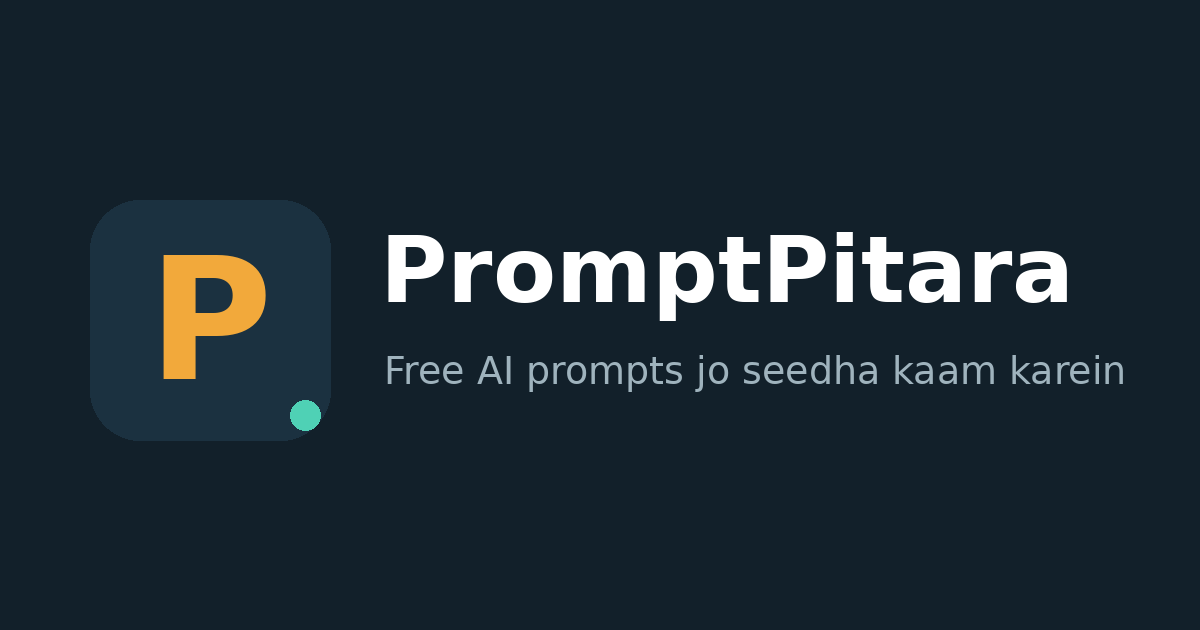
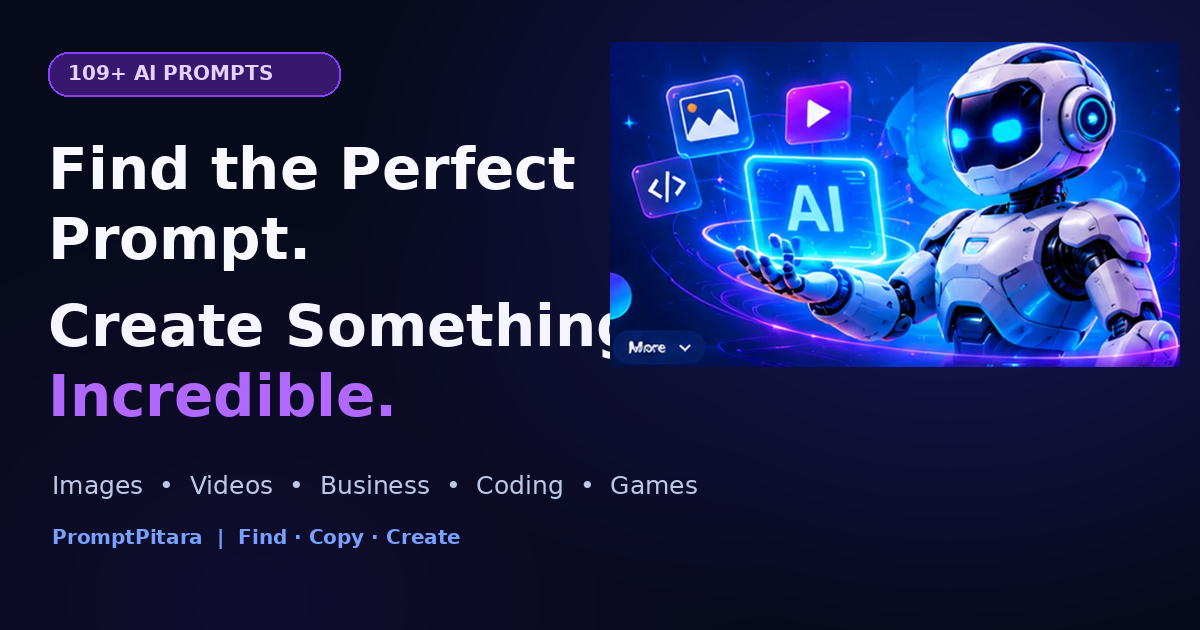
Add files via upload

diff --git a/index.html b/index.html
@@ -1,8 +1,20 @@
 <!doctype html><html lang="en"><head><meta charset="utf-8"><meta name="viewport" content="width=device-width,initial-scale=1,interactive-widget=resizes-content"><link rel="icon" href="/favicon.svg"><link rel="preconnect" href="https://fonts.googleapis.com"><link href="https://fonts.googleapis.com/css2?family=Bricolage+Grotesque:wght@600;700&family=Hind:wght@400;600&display=swap" rel="stylesheet"><link rel="stylesheet" href="/style.css">
-<title>PromptPitara — Free AI Prompts jo seedha kaam karein</title><meta name="description" content="Website, reels, images, coding aur business ke liye ready-to-use AI prompt templates. Details bharo, copy karo, kaam shuru karo."><link rel="canonical" href="https://promptshala-theta.vercel.app/">
-<meta property="og:type" content="website"><meta property="og:site_name" content="PromptPitara"><meta property="og:title" content="PromptPitara — Free AI Prompts"><meta property="og:description" content="Ready-to-use AI prompt templates. Details bharo, copy karo, use karo."><meta property="og:url" content="https://promptshala-theta.vercel.app/"><meta property="og:image" content="https://promptshala-theta.vercel.app/og.png"><meta name="twitter:card" content="summary_large_image"><meta name="twitter:image" content="https://promptshala-theta.vercel.app/og.png"><meta name="theme-color" content="#12202A"><style>dialog{max-height:88dvh;overflow:auto}details.ex{margin:0 0 12px}.card{transition:transform .15s,box-shadow .15s}.card:hover{transform:translateY(-2px);box-shadow:0 8px 24px #0002}.card h3{margin:2px 0}</style></head><body>
-<header><div class="wrap"><a class="brand" href="/"><img src="/logo.svg" alt="">PromptPitara</a><nav><a href="/about.html">About</a><a href="/contact.html">Contact</a></nav></div></header>
-<main class="wrap"><section class="hero"><h1>AI se kaam karwana seekho, prompt se.</h1><p>Website, reels, images, coding, games aur business ke liye ready-to-use templates. Apni details daalo, prompt copy karo.</p><p id="stats" class="stats"></p><input id="q" type="search" placeholder="Search karo: reel, logo, python…" aria-label="Search prompts"></section>
+<title>PromptPitara — Discover, Copy & Create with AI Prompts</title><meta name="description" content="Discover 109+ practical AI prompts for images, videos, business, coding, gaming and content creation. Customize, preview and copy in seconds."><link rel="canonical" href="https://promptshala-theta.vercel.app/">
+<meta property="og:type" content="website"><meta property="og:site_name" content="PromptPitara"><meta property="og:title" content="PromptPitara — Free AI Prompts"><meta property="og:description" content="Ready-to-use AI prompt templates. Details bharo, copy karo, use karo."><meta property="og:url" content="https://promptshala-theta.vercel.app/"><meta property="og:image" content="https://promptshala-theta.vercel.app/og.png"><meta name="twitter:card" content="summary_large_image"><meta name="twitter:image" content="https://promptshala-theta.vercel.app/og.png"><meta name="theme-color" content="#070a1b"><style>dialog{max-height:88dvh;overflow:auto}details.ex{margin:0 0 12px}.card{transition:transform .15s,box-shadow .15s}.card:hover{transform:translateY(-2px);box-shadow:0 8px 24px #0002}.card h3{margin:2px 0}</style></head><body>
+<header class="site-header"><div class="wrap header-inner"><a class="brand" href="/" aria-label="PromptPitara home"><img src="/logo.svg" alt=""> <span>Prompt<span class="brand-accent">Pitara</span><small>Find · Copy · Create</small></span></a><nav aria-label="Main navigation"><a class="nav-active" href="/">Home</a><a href="#categories">Explore</a><a href="#categories">Categories</a><a href="#builder-title">Prompt Generator</a><a href="/about.html">About</a><a href="/contact.html">Contact</a></nav><a class="nav-saved" href="#chips" id="saved-shortcut">✦ Saved prompts</a></div></header>
+<main class="wrap main-wrap"><section class="hero hero-pro"><div class="hero-copy"><span class="eyebrow">🔥 109+ READY-TO-USE PROMPTS</span><h1>Find the Perfect Prompt.<br> Create Something <span>Incredible.</span></h1><p>Explore practical AI prompts for images, videos, business, coding, gaming and content creation.</p><div class="hero-search"><input id="q" type="search" placeholder="Search prompts… e.g. AI video, business plan, game design" aria-label="Search prompts"><a href="#prompt-library" class="btn search-btn">Explore prompts →</a></div><p id="stats" class="stats"></p></div><div class="hero-art" role="img" aria-label="Futuristic AI robot with glowing creative tools"></div></section>
+<section class="category-section" id="categories"><div class="section-heading"><div><span class="eyebrow">DISCOVER BY CATEGORY</span><h2>Explore Prompt Categories</h2></div><a href="#prompt-library">Browse all →</a></div><div class="category-showcase">
+<a class="category-tile" href="#prompt-library" data-category="AI Images"><img src="/assets/categories/category-01.webp" alt="AI image creation artwork"><span>AI Image Creation</span><small>Creative visuals</small></a>
+<a class="category-tile" href="#prompt-library" data-category="AI Video"><img src="/assets/categories/category-02.webp" alt="AI video production artwork"><span>AI Video Creation</span><small>Cinematic clips</small></a>
+<a class="category-tile" href="#prompt-library" data-category="Business"><img src="/assets/categories/category-03.webp" alt="Business growth artwork"><span>Business & Startup</span><small>Build your idea</small></a>
+<a class="category-tile" href="#prompt-library" data-category="Social Media"><img src="/assets/categories/category-04.webp" alt="Social media marketing artwork"><span>Social Media</span><small>Grow your reach</small></a>
+<a class="category-tile" href="#prompt-library" data-category="Website"><img src="/assets/categories/category-05.webp" alt="Website coding artwork"><span>Website & Coding</span><small>Build and launch</small></a>
+<a class="category-tile" href="#prompt-library" data-category="Game Development"><img src="/assets/categories/category-06.webp" alt="Game development artwork"><span>2D & 3D Games</span><small>Design gameplay</small></a>
+<a class="category-tile" href="#prompt-library" data-category="AI Tools"><img src="/assets/categories/category-07.webp" alt="Logo and branding artwork"><span>Logo & Branding</span><small>Build a brand</small></a>
+<a class="category-tile" href="#prompt-library" data-category="AI Images"><img src="/assets/categories/category-08.webp" alt="Product photography artwork"><span>Product Photography</span><small>Visual storytelling</small></a>
+<a class="category-tile" href="#prompt-library" data-category="AI Images"><img src="/assets/categories/category-09.webp" alt="Anime character artwork"><span>Anime & Characters</span><small>Character concepts</small></a>
+<a class="category-tile" href="#prompt-library" data-category="YouTube"><img src="/assets/categories/category-10.webp" alt="YouTube thumbnail artwork"><span>YouTube Thumbnails</span><small>Get more clicks</small></a>
+</div></section>
 <section class="quick-builder" aria-labelledby="builder-title">
 <h2 id="builder-title">Apna prompt khud banao</h2><p>Apna idea likho aur ek structured prompt turant generate karo. Is tool ko use karne ke liye login ya API key nahi chahiye.</p>
 <div class="builder-grid">
@@ -17,11 +29,11 @@
 <p class="builder-note">Note: Ye rule-based prompt builder hai, AI chatbot nahi. Ye aapke inputs ko structured instructions mein convert karta hai; AI ka actual output aapke chosen AI tool mein milega.</p>
 </section>
 <section class="steps"><div><b>1</b><span>Template chuno</span></div><div><b>2</b><span>Details bharo</span></div><div><b>3</b><span>Copy karo, AI mein paste karo</span></div></section>
-<div id="chips" class="chips"></div><p id="count" style="color:var(--mute)"></p><div id="grid" class="grid"></div>
+<section id="prompt-library" class="library-section"><div class="section-heading"><div><span class="eyebrow">THE PROMPT LIBRARY</span><h2>Find Your Next Great Prompt</h2><p>Filter, preview, customize and copy a template in seconds.</p></div></div><div id="chips" class="chips"></div><p id="count" class="result-count" style="color:var(--mute)"></p><div id="grid" class="grid"></div></section>
 <section class="faq"><h2>Aksar pooche jaane wale sawaal</h2>
 <details><summary>Kya ye free hai?</summary><p>Haan, saare prompts free hain. Koi login ya payment nahi chahiye.</p></details>
 <details><summary>Prompt kaunse AI tool mein chalega?</summary><p>ChatGPT, Gemini, Claude, Midjourney, Flow jaise kisi bhi tool mein. Bas copy karke paste karo.</p></details>
 <details><summary>Mere Saved prompts kahan rehte hain?</summary><p>Aapke apne browser mein, isliye wo sirf isi phone ya browser par dikhenge.</p></details>
 <details><summary>Mujhe apni zaroorat ka prompt nahi mila, kya karun?</summary><p>Contact page par likho. Hum naye templates add karte rehte hain.</p></details></section><details class="all"><summary>Saare prompts ki list (109)</summary><ul style="columns:2;padding-left:18px"><li><a href="/p/website-landing-page">Landing page</a></li><li><a href="/p/website-pre-launch-checklist">Pre-launch checklist</a></li><li><a href="/p/website-admin-dashboard">Admin dashboard</a></li><li><a href="/p/social-media-viral-reel-script">Viral reel script</a></li><li><a href="/p/social-media-caption-pack">Caption pack</a></li><li><a href="/p/social-media-30-day-content-calendar">30-day content calendar</a></li><li><a href="/p/ai-images-photo-prompt">Photo prompt</a></li><li><a href="/p/ai-images-product-shot">Product shot</a></li><li><a href="/p/ai-images-poster-prompt">Poster prompt</a></li><li><a href="/p/ai-video-cinematic-clip">Cinematic clip</a></li><li><a href="/p/ai-video-video-ad-script">Video ad script</a></li><li><a href="/p/coding-build-a-project">Build a project</a></li><li><a href="/p/coding-code-review">Code review</a></li><li><a href="/p/coding-learn-by-building">Learn by building</a></li><li><a href="/p/youtube-titles-and-thumbnails">Titles and thumbnails</a></li><li><a href="/p/youtube-full-script">Full script</a></li><li><a href="/p/business-idea-validation">Idea validation</a></li><li><a href="/p/business-cold-email">Cold email</a></li><li><a href="/p/business-marketing-plan">Marketing plan</a></li><li><a href="/p/writing-blog-post">Blog post</a></li><li><a href="/p/writing-rewrite">Rewrite</a></li><li><a href="/p/ai-tools-prompt-improver">Prompt improver</a></li><li><a href="/p/ai-tools-daily-ai-workflow">Daily AI workflow</a></li><li><a href="/p/study-30-day-learning-plan">30-day learning plan</a></li><li><a href="/p/website-portfolio-site">Portfolio site</a></li><li><a href="/p/website-seo-audit">SEO audit</a></li><li><a href="/p/website-faq-writer">FAQ writer</a></li><li><a href="/p/website-product-page-copy">Product page copy</a></li><li><a href="/p/social-media-hashtag-set">Hashtag set</a></li><li><a href="/p/social-media-carousel-outline">Carousel outline</a></li><li><a href="/p/social-media-comment-replies">Comment replies</a></li><li><a href="/p/social-media-bio-writer">Bio writer</a></li><li><a href="/p/ai-images-logo-brief">Logo brief</a></li><li><a href="/p/ai-images-portrait">Portrait</a></li><li><a href="/p/ai-images-food-photo">Food photo</a></li><li><a href="/p/ai-images-interior-design">Interior design</a></li><li><a href="/p/ai-video-product-reveal">Product reveal</a></li><li><a href="/p/ai-video-nature-timelapse">Nature timelapse</a></li><li><a href="/p/ai-video-talking-presenter">Talking presenter</a></li><li><a href="/p/ai-video-story-scene">Story scene</a></li><li><a href="/p/coding-bug-fixer">Bug fixer</a></li><li><a href="/p/coding-sql-helper">SQL helper</a></li><li><a href="/p/coding-explain-code">Explain code</a></li><li><a href="/p/coding-api-design">API design</a></li><li><a href="/p/coding-unit-tests">Unit tests</a></li><li><a href="/p/youtube-shorts-script">Shorts script</a></li><li><a href="/p/youtube-description-and-tags">Description and tags</a></li><li><a href="/p/youtube-channel-ideas">Channel ideas</a></li><li><a href="/p/youtube-thumbnail-text">Thumbnail text</a></li><li><a href="/p/business-brand-name-ideas">Brand name ideas</a></li><li><a href="/p/business-pricing-plan">Pricing plan</a></li><li><a href="/p/business-whatsapp-pitch">WhatsApp pitch</a></li><li><a href="/p/business-swot-analysis">SWOT analysis</a></li><li><a href="/p/business-customer-reply">Customer reply</a></li><li><a href="/p/writing-email-writer">Email writer</a></li><li><a href="/p/writing-story-starter">Story starter</a></li><li><a href="/p/writing-proofread">Proofread</a></li><li><a href="/p/writing-summarizer">Summarizer</a></li><li><a href="/p/ai-tools-role-prompt">Role prompt</a></li><li><a href="/p/ai-tools-compare-tools">Compare tools</a></li><li><a href="/p/ai-tools-step-by-step-guide">Step-by-step guide</a></li><li><a href="/p/study-quiz-maker">Quiz maker</a></li><li><a href="/p/study-exam-notes">Exam notes</a></li><li><a href="/p/study-explain-simply">Explain simply</a></li><li><a href="/p/study-study-timetable">Study timetable</a></li><li><a href="/p/study-interview-prep">Interview prep</a></li><li><a href="/p/website-coming-soon-page">Coming soon page</a></li><li><a href="/p/website-blog-outline">Blog outline</a></li><li><a href="/p/website-pricing-page">Pricing page</a></li><li><a href="/p/social-media-story-ideas">Story ideas</a></li><li><a href="/p/social-media-trend-caption">Trend caption</a></li><li><a href="/p/social-media-giveaway-post">Giveaway post</a></li><li><a href="/p/ai-images-app-icon">App icon</a></li><li><a href="/p/ai-images-anime-character">Anime character</a></li><li><a href="/p/ai-images-fantasy-landscape">Fantasy landscape</a></li><li><a href="/p/ai-video-drone-shot">Drone shot</a></li><li><a href="/p/ai-video-food-ad">Food ad</a></li><li><a href="/p/ai-video-explainer-scenes">Explainer scenes</a></li><li><a href="/p/coding-refactor">Refactor</a></li><li><a href="/p/coding-regex-helper">Regex helper</a></li><li><a href="/p/coding-landing-page-code">Landing page code</a></li><li><a href="/p/coding-git-help">Git help</a></li><li><a href="/p/youtube-hook-ideas">Hook ideas</a></li><li><a href="/p/youtube-video-outline">Video outline</a></li><li><a href="/p/business-business-plan">Business plan</a></li><li><a href="/p/business-ad-copy">Ad copy</a></li><li><a href="/p/business-meeting-summary">Meeting summary</a></li><li><a href="/p/business-linkedin-post">LinkedIn post</a></li><li><a href="/p/writing-product-description">Product description</a></li><li><a href="/p/writing-speech-writer">Speech writer</a></li><li><a href="/p/writing-poem">Poem</a></li><li><a href="/p/ai-tools-custom-gpt-brief">Custom GPT brief</a></li><li><a href="/p/ai-tools-prompt-tester">Prompt tester</a></li><li><a href="/p/ai-tools-automate-a-task">Automate a task</a></li><li><a href="/p/study-flashcards">Flashcards</a></li><li><a href="/p/study-essay-outline">Essay outline</a></li><li><a href="/p/study-math-steps">Math steps</a></li><li><a href="/p/study-language-practice">Language practice</a></li><li><a href="/p/study-mock-interview">Mock interview</a></li><li><a href="/p/game-development-2d-game-concept">2D game concept</a></li><li><a href="/p/game-development-3d-game-concept">3D game concept</a></li><li><a href="/p/game-development-game-character-design">Game character design</a></li><li><a href="/p/game-development-level-design-blueprint">Level design blueprint</a></li><li><a href="/p/game-development-unity-csharp-feature-builder">Unity C# feature builder</a></li><li><a href="/p/game-development-unreal-engine-blueprint-planner">Unreal Engine blueprint planner</a></li><li><a href="/p/game-development-game-ui-and-hud-design">Game UI and HUD design</a></li><li><a href="/p/game-development-game-bug-investigator">Game bug investigator</a></li><li><a href="/p/game-development-mobile-game-optimization">Mobile game optimization</a></li><li><a href="/p/game-development-game-monetization-and-retention-review">Game monetization and retention review</a></li></ul></details></main>
 <dialog id="dlg"><h2 id="dt"></h2><div id="fields"></div><div id="out" class="out"></div><details id="exd" hidden><summary>Namuna nateeja dekho</summary><div id="ext" class="out"></div><small style="color:var(--mute)">Ye sirf ek namuna hai (default values ke saath). AI ka asli jawab alag ho sakta hai.</small></details><div class="row" style="margin-top:12px"><button id="copy" class="btn">Copy prompt</button><button id="save" class="btn alt">Save</button><button id="share" class="btn alt">Share</button><a id="page" class="btn alt" href="#" style="text-decoration:none;display:inline-block">Open page</a><button id="close" class="btn alt">Close</button></div></dialog>
-<footer><div class="wrap"><a href="/about.html">About</a><a href="/contact.html">Contact</a><a href="/privacy.html">Privacy</a><a href="/terms.html">Terms</a><p>© 2026 PromptPitara. Sabke liye free AI prompts.</p></div></footer><script src="/examples.js"></script><script src="/app.js"></script></body></html>
+<footer class="site-footer"><div class="wrap footer-inner"><div><a class="brand" href="/"><img src="/logo.svg" alt="">Prompt<span class="brand-accent">Pitara</span></a><p>Find useful prompts. Create better work.</p></div><div class="footer-links"><a href="/about.html">About</a><a href="/contact.html">Contact</a><a href="/privacy.html">Privacy</a><a href="/terms.html">Terms</a></div><p class="copyright">© 2026 PromptPitara. Free prompt templates for creators.</p></div></footer><script src="/examples.js"></script><script src="/app.js"></script></body></html>

diff --git a/style.css b/style.css
@@ -57,3 +57,18 @@ dialog .row{position:sticky;bottom:-24px;padding:12px 0 2px;background:var(--bg)
 .builder-actions{margin-top:12px}.builder-actions button:disabled{opacity:.45;cursor:not-allowed}
 .builder-output{min-height:110px;margin-bottom:8px}.builder-note{font-size:13px!important;margin:0!important}
 @media(max-width:560px){.quick-builder{padding:16px}.builder-grid{grid-template-columns:1fr}.builder-actions>*{flex:1 1 100%}}
+
+/* PromptPitara Pro refresh — responsive neon marketplace visual system */
+:root{--bg:#070a1b;--ink:#f4f5ff;--mute:#a7accb;--card:#111632;--line:#343b70;--acc:#8b35ff;--teal:#5f9dff;--r:18px;color-scheme:dark}
+body{background:radial-gradient(ellipse at 78% 0%,#17114a 0%,transparent 36%),var(--bg);color:var(--ink);font-family:Inter,Hind,system-ui,sans-serif;line-height:1.55}
+.wrap{max-width:1440px;padding-left:26px;padding-right:26px}
+a{color:#b68aff}h1,h2,h3{letter-spacing:-.035em}
+.site-header{position:sticky;top:0;z-index:30;background:#080b20ed;border-bottom:1px solid #34336c;backdrop-filter:blur(18px)}.header-inner{height:76px;display:flex;align-items:center;gap:28px}.brand{color:#fff;font-size:23px;line-height:1}.brand img{width:42px;height:42px}.brand-accent{color:#b84dff}.brand small{display:block;color:#9298bd;font:500 10px/1.3 Inter,sans-serif;letter-spacing:.12em;margin-top:5px}.site-header nav{display:flex;align-items:center;gap:7px;margin-left:auto}.site-header nav a,.nav-saved{color:#d8dcf4;text-decoration:none;font-size:14px;padding:10px 13px;border-radius:30px;margin:0;white-space:nowrap}.site-header nav a:hover,.site-header nav .nav-active{background:linear-gradient(110deg,#792bfa,#4e54ef);color:#fff;box-shadow:0 0 22px #702aff65}.nav-saved{border:1px solid #49427e}
+.main-wrap{padding-top:18px}.hero-pro{position:relative;display:flex;align-items:center;min-height:365px;padding:38px 0 30px;overflow:hidden}.hero-copy{position:relative;z-index:2;width:61%}.eyebrow{display:inline-flex;color:#d9b5ff;background:#32156d;border:1px solid #6735ba;border-radius:99px;padding:6px 13px;font-size:11px;font-weight:800;letter-spacing:.11em}.hero-pro h1{font-size:clamp(38px,5vw,68px);max-width:850px;line-height:1.02;margin:18px 0}.hero-pro h1 span{background:linear-gradient(90deg,#d34cff,#638bff);-webkit-background-clip:text;background-clip:text;color:transparent}.hero-pro p{color:#c0c4df;font-size:17px;max-width:660px}.hero-search{display:flex;gap:10px;max-width:740px;margin-top:22px;padding:7px;border:1px solid #51418d;border-radius:16px;background:#151937;box-shadow:0 8px 35px #0005}.hero-search input{background:transparent;border:0;min-width:0}.hero-search input:focus{outline:0}.search-btn{display:flex;align-items:center;white-space:nowrap;text-decoration:none;background:linear-gradient(110deg,#922cff,#375eff);color:#fff;border-radius:12px;padding:10px 20px}.hero-pro .stats{font-size:13px;color:#9fa6d0;margin-top:9px}.hero-art{position:absolute;right:-12px;top:0;width:48%;height:100%;background:url('/assets/hero/ai-robot.webp') center/contain no-repeat;filter:drop-shadow(0 0 34px #4e3dff65);opacity:.95;pointer-events:none}
+.section-heading{display:flex;align-items:end;justify-content:space-between;gap:16px;margin:20px 0 15px}.section-heading h2{font-size:clamp(24px,3vw,32px);margin:5px 0}.section-heading p{margin:0;color:var(--mute);font-size:14px}.section-heading>a{white-space:nowrap;text-decoration:none;font-weight:700}.category-showcase{display:grid;grid-template-columns:repeat(10,minmax(0,1fr));gap:11px;margin-bottom:30px}.category-tile{min-width:0;overflow:hidden;position:relative;border:1px solid #464080;border-radius:15px;background:#121630;text-decoration:none;color:#fff;transition:transform .2s,border-color .2s,box-shadow .2s}.category-tile:hover{transform:translateY(-4px);border-color:#b04dff;box-shadow:0 10px 28px #5b2bff35}.category-tile img{display:block;width:100%;aspect-ratio:1.5;object-fit:cover}.category-tile span{display:block;padding:9px 9px 0;font-weight:800;font-size:13px;line-height:1.2}.category-tile small{display:block;padding:4px 9px 10px;color:#aeb4d5;font-size:11px}.quick-builder{margin:28px 0 26px;padding:24px;background:linear-gradient(130deg,#15153c,#11172f);border:1px solid #5944a0;border-radius:20px;box-shadow:0 12px 45px #0004}.quick-builder h2{font-size:clamp(24px,3vw,32px)}.quick-builder>p{color:var(--mute)}.builder-grid input,.builder-grid select,.quick-builder textarea{background:#090e24;border-color:#353c70;color:#fff}.btn{background:linear-gradient(110deg,#9a35ff,#435eff);color:white;border-radius:12px;box-shadow:0 5px 18px #5d32ff40}.btn.alt{background:#171d3b;border:1px solid #464b7c;color:#e5e7ff}.steps{margin:22px 0}.steps div{background:#111632;border-color:#343b70;color:#dce0fa}.steps b{background:linear-gradient(135deg,#9b35ff,#466bff);color:white}.chips{gap:9px;padding:14px 0}.chip{background:#111632;border-color:#343b70;color:#d8dcf6;font-size:14px;padding:8px 16px}.chip.on{background:linear-gradient(100deg,#8c2fff,#455eff);border-color:transparent;color:white;box-shadow:0 4px 18px #622bff55}.result-count{font-size:13px}.grid{grid-template-columns:repeat(auto-fill,minmax(245px,1fr));gap:14px}.card{position:relative;background:linear-gradient(145deg,#151a3a,#0e132b);border:1px solid #373d70;border-radius:17px;padding:0 16px 16px;min-height:175px;color:#f2f3ff;box-shadow:0 8px 22px #0002}.card:before{content:"";display:block;height:8px;margin:0 -16px 13px;border-radius:16px 16px 0 0;background:linear-gradient(90deg,#9d3bff,#3d77ff)}.card small{color:#c5a5ff;font-weight:800}.card h3{font-size:19px;margin:6px 0}.card span{color:#b8bedc;font-size:14px}.card:hover{border-color:#a34dff;box-shadow:0 12px 28px #5428b944;transform:translateY(-3px)}
+.faq{max-width:900px}.faq h2{font-size:28px}.faq details,details.all{background:#10152f;border-color:#343b70}.faq summary,details.all summary{color:#e9eaff}.faq details p{color:#b7bdd9}.site-footer{border-color:#30365f;background:#090d22;padding:34px 0 20px}.footer-inner{display:flex;align-items:center;justify-content:space-between;gap:20px;flex-wrap:wrap}.footer-inner p{color:#9da4c8;font-size:13px}.footer-links{display:flex;gap:18px;flex-wrap:wrap}.footer-links a{color:#c7cbed;text-decoration:none;font-size:13px}.copyright{width:100%;border-top:1px solid #292f54;padding-top:15px;margin:8px 0 0!important}
+@media(max-width:1100px){.category-showcase{grid-template-columns:repeat(5,minmax(0,1fr))}.hero-copy{width:66%}.hero-art{width:45%;opacity:.65}.site-header nav a{padding:8px 9px;font-size:13px}}
+@media(max-width:760px){.wrap{padding-left:17px;padding-right:17px}.header-inner{height:auto;min-height:68px;flex-wrap:wrap;gap:6px;padding-top:10px;padding-bottom:10px}.site-header nav{order:3;width:100%;overflow-x:auto;margin:0;padding:2px 0 4px}.site-header nav a{flex:none}.nav-saved{margin-left:auto}.hero-pro{min-height:unset;padding:25px 0 20px}.hero-copy{width:100%}.hero-pro h1{font-size:clamp(36px,9vw,54px);max-width:13ch}.hero-pro p{font-size:15px;max-width:95%}.hero-art{right:-75px;top:5px;width:65%;height:240px;opacity:.16}.hero-search{position:relative;z-index:3}.category-showcase{grid-template-columns:repeat(2,minmax(0,1fr));gap:10px}.category-tile{display:grid;grid-template-columns:104px 1fr;grid-template-rows:1fr auto;align-items:center}.category-tile img{grid-row:1/3;width:104px;height:100%;min-height:82px;aspect-ratio:auto}.category-tile span{padding:8px 8px 0;font-size:13px}.category-tile small{padding:2px 8px 8px}.section-heading{align-items:start}.section-heading h2{font-size:25px}.quick-builder{padding:17px}.grid{grid-template-columns:1fr}.card{min-height:145px}.footer-inner{align-items:flex-start}.footer-links{gap:12px}}
+@media(max-width:420px){.hero-search{display:block;background:transparent;border:0;padding:0;box-shadow:none}.hero-search input{background:#151937;border:1px solid #51418d;margin-bottom:8px}.search-btn{justify-content:center}.category-tile{grid-template-columns:88px 1fr}.category-tile img{width:88px}.brand{font-size:20px}.brand img{width:36px;height:36px}}
+.prompt-thumb{width:calc(100% + 32px);height:118px;object-fit:cover;margin:-1px -16px 12px;border-radius:16px 16px 0 0;display:block}.card:before{display:none}.card small{display:inline-flex;align-self:flex-start;background:#30205e;border:1px solid #6044a1;border-radius:99px;padding:3px 9px}.card h3{margin:4px 0}.card span{line-height:1.45}
+.page{color:var(--ink)}.page .out{background:#101630;border-color:#343b70}.page input{background:#101630;border-color:#343b70;color:#fff}.page h1{font-size:clamp(30px,5vw,48px)}.page h2{color:#eeeaff}

diff --git a/app.js b/app.js
@@ -109,6 +109,7 @@ const P=[
 ["Game Development","Mobile game optimization","Audit a {engine} game for Android performance. Target devices: {devices}. Review frame rate, memory, loading, draw calls, textures, UI, battery use and input latency. Give a prioritized optimization plan with measurable targets and profiling steps.",{engine:"Unity",devices:"low and mid-range phones"}],
 ["Game Development","Game monetization and retention review","Evaluate this game concept: {concept}. Audience: {audience}. Propose ethical monetization options, retention loops, onboarding improvements and live-ops ideas. Estimate development complexity and risks; do not rely on manipulative dark patterns.",{concept:"casual puzzle game",audience:"teen and adult mobile players"}],];
 const slug=i=>(P[i][0]+"-"+P[i][1]).toLowerCase().replace(/[^a-z0-9]+/g,"-").replace(/^-|-$/g,"");
+const TH={"AI Images":"category-01","AI Video":"category-02","Business":"category-03","Social Media":"category-04","Website":"category-05","Coding":"category-05","Game Development":"category-06","AI Tools":"category-07","YouTube":"category-10","Writing":"category-04","Study":"category-05"};
 const IC={"Website":"🌐","Social Media":"📱","AI Images":"🖼","AI Video":"🎬","Coding":"💻","YouTube":"▶","Business":"💼","Writing":"✍","AI Tools":"🤖","Study":"📚","Game Development":"🎮"},CL={"Website":"#3B82F6","Social Media":"#EC4899","AI Images":"#A855F7","AI Video":"#EF4444","Coding":"#10B981","YouTube":"#F97316","Business":"#EAB308","Writing":"#14B8A6","AI Tools":"#6366F1","Study":"#22C55E","Game Development":"#8B5CF6"};
 // Storage and clipboard helpers: keep the site usable when browser permissions/storage fail.
 function safeReadSaved(){
@@ -140,10 +141,13 @@ if(document.getElementById("grid")){
 const $=s=>document.querySelector(s),cats=["All","Saved",...new Set(P.map(p=>p[0]))];
 let cat="All",q="",saved=safeReadSaved(),cur;
 function render(){const l=P.map((p,i)=>({p,i})).filter(({p,i})=>(cat=="All"||(cat=="Saved"?saved.includes(i):p[0]==cat))&&(p[1]+p[2]+p[0]+Object.keys(p[3]).join(" ")+Object.values(p[3]).join(" ")).toLowerCase().includes(q));
-$("#grid").innerHTML=l.length?l.map(({p,i})=>`<button class="card" data-i="${i}" style="border-left:4px solid ${CL[p[0]]||"#999"}"><small>${IC[p[0]]||""} ${p[0]}</small><h3>${p[1]}</h3><span>${p[2].slice(0,95)}…</span></button>`).join(""):'<p class="empty">Kuch nahi mila. Doosra shabd try karo.</p>';
+$("#grid").innerHTML=l.length?l.map(({p,i})=>`<button class="card" data-i="${i}"><img class="prompt-thumb" src="/assets/categories/${TH[p[0]]||"category-01"}.webp" alt="" loading="lazy"><small>${IC[p[0]]||""} ${p[0]}</small><h3>${p[1]}</h3><span>${p[2].slice(0,110)}…</span></button>`).join(""):'<p class="empty">Kuch nahi mila. Doosra shabd try karo.</p>';
 $("#count").textContent=l.length+" prompt templates"}
 $("#chips").innerHTML=cats.map(c=>`<button class="chip${c==cat?" on":""}">${c}</button>`).join("");
-$("#chips").onclick=e=>{if(!e.target.matches(".chip"))return;cat=e.target.textContent;document.querySelectorAll(".chip").forEach(c=>c.classList.toggle("on",c==e.target));render()};
+function setCategory(next){cat=next;document.querySelectorAll(".chip").forEach(c=>c.classList.toggle("on",c.textContent===cat));render()}
+$("#chips").onclick=e=>{if(!e.target.matches(".chip"))return;setCategory(e.target.textContent)};
+document.querySelectorAll(".category-tile").forEach(tile=>tile.addEventListener("click",()=>{setCategory(tile.dataset.category||"All")}));
+const savedShortcut=document.getElementById("saved-shortcut");if(savedShortcut)savedShortcut.addEventListener("click",()=>setCategory("Saved"));
 $("#q").oninput=e=>{q=e.target.value.toLowerCase();render()};
 function build(){$("#page").href="/p/"+slug(cur);{const x=typeof EX!="undefined"&&EX[slug(cur)];$("#exd").hidden=!x;if(x)$("#ext").textContent=x}let t=P[cur][2];document.querySelectorAll("#fields input").forEach(i=>t=t.split("{"+i.name+"}").join(i.value||"{"+i.name+"}"));$("#out").textContent=t}
 $("#grid").onclick=e=>{const c=e.target.closest(".card");if(!c)return;cur=+c.dataset.i;const p=P[cur];$("#dt").textContent=p[1];

diff --git a/README.md b/README.md
@@ -1,5 +1,26 @@
-# PromptPitara
-Static site (HTML/CSS/JS). Koi build step nahi.
-Deploy: Vercel par folder drag-drop karo, ya GitHub se connect karo.
-Prompts badalne ke liye app.js ka P array edit karo: [category, title, template, {variable: default}].
-Domain lene ke baad "yourdomain.com" ko robots.txt, sitemap.xml, index.html (canonical, og) aur contact.html mein replace karo.
+# PromptPitara — Pro Refresh
+
+A static HTML/CSS/JavaScript prompt library. No build step, framework, API key, or backend is required.
+
+## Included in this update
+- Premium responsive dark/neon marketplace visual refresh.
+- Ten category artwork thumbnails plus a hero illustration (all local WebP assets).
+- Preserved the existing 109 prompt templates and their individual prompt pages.
+- Preserved the Custom Prompt Builder, search, category filters, saved prompts, preview, copy, and share behavior.
+- Updated navigation, mobile layout, prompt cards, and metadata.
+
+## Deploy to Vercel via GitHub
+1. Extract the ZIP.
+2. Open the extracted project folder and confirm `index.html`, `app.js`, `style.css`, and `assets/` are present.
+3. Upload/replace the project files in your GitHub repository. Do not upload only `index.html`; the `assets` folder and all other files are required.
+4. Commit the changes. Vercel should automatically redeploy if the repository is connected.
+5. Open the deployed site on desktop and mobile and test search, category filters, prompt preview, copy, save, share, and the custom prompt builder.
+
+## Editing prompts
+Edit the `P` array at the top of `app.js`. Each entry uses:
+`[category, title, prompt_template, { variable: default_value }]`
+
+## Notes
+- Saved prompts are stored locally in each visitor's browser; they do not sync across devices.
+- The Custom Prompt Builder is rule-based. It does not call an AI API.
+- This project is static and can be deployed directly to Vercel, Netlify, or GitHub Pages.
